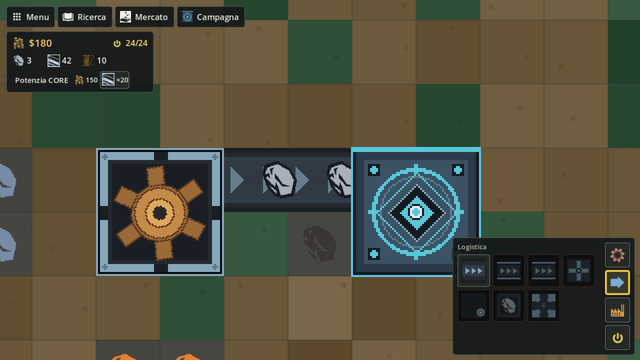
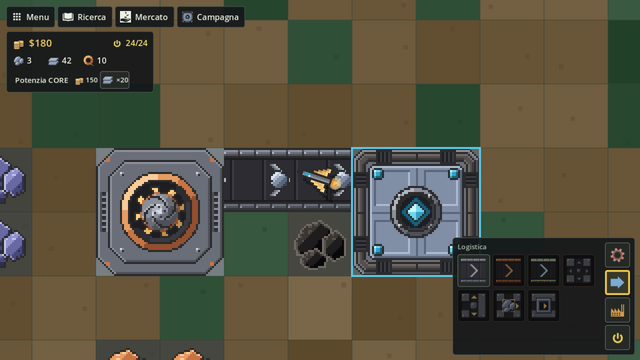
docs: arte generata da script e ADR 0004 (G1 6/6)
- ADR 0004 "Arte generata da script" e riga nell'indice delle decisioni
- ARCHITETTURA: sezione "Grafica e sprite" e "Come aggiungere lo sprite di un blocco"; mappa delle cartelle aggiornata
- CLAUDE.md: sprite solo da tools/art/genera.py, mai PNG ritoccati a mano
- README: catture vere della grafica nuova, roadmap con SP3 e G1 fatti
- godot/README: sezione Grafica, ponte al 70% della cella
- CHANGELOG, spec della G1 col link al piano, mappa Obsidian (G1 fatta, G2a in corso)

diff --git a/tools/dev/mappa_canvas.py b/tools/dev/mappa_canvas.py
@@ -63,7 +63,7 @@ def link(a, b):
 X = [0, COL_W + 2 * PAD + COL_GAP]
 X += [X[1] * 2, X[1] * 3]
 
-title = "# tIndustry — mappa del progetto\nMindustry × Tiny Industry, Godot 4.4 .NET. Aggiornata il 2026-10-18, notte."
+title = "# tIndustry — mappa del progetto\nMindustry × Tiny Industry, Godot 4.4 .NET. Aggiornata il 2026-10-18, dopo la G1."
 nodes.append({"id": "titolo", "type": "text", "text": title, "x": 0, "y": -170,
               "width": X[3] + COL_W + 2 * PAD, "height": 130, "color": "6"})
 
@@ -72,20 +72,20 @@ fatto = Column("g-fatto", "Fatto", X[0], "4")
 fatto.card("sp1", "**SP1 · Riordino**\nCartelle, CLAUDE.md, ARCHITETTURA, dev.cmd, ADR 0001.\nPR #139–#146")
 fatto.card("sp2", "**SP2 · Simulazione a comandi**\nTick 60/s, GameState e sistemi, SimHost, IGameView, istantanea e checksum, salvataggi v10.\nPR #147–#151 (+#154) · [[2026-10-16-simulazione-comandi-sistemi|diario]]")
 fatto.card("sp3", "**SP3 · Costruzione come Mindustry**\nPiani, drone e cantieri con consegna dal Core, smontaggio con rimborso graduale, coda nell'HUD, salvataggi v11.\nPR #159–#166 · [[2026-10-17-costruzione-in-corso|diario]] · [[0003-costruzione-come-mindustry|ADR 0003]]")
+fatto.card("g1", "**G1 · Arte dei blocchi**\nPixel-art nostra generata da tools/art/ (32 px per cella): edifici a strati, nastri a 3 tier, oggetti, Core in 4 tier, drone alpha / beta / gamma, animazioni di base.\nPR #168–#173 · [[0004-arte-generata-da-script|ADR 0004]] · [[2026-10-18-g1-arte-blocchi|piano]]")
 fatto.card("extra", "**Rifiniture**\n- salvataggio atomico, doppio input, MajorityDeposit (#155)\n- log dei playtest fuori dal profilo (#156)\n- diario e .md in LF (#157)\n- playtest isolati e backup di Continua (#162)")
-fatto.card("docs", "**Documenti**\n- [[ARCHITETTURA]]\n- [[decisioni]] (indice degli ADR, fino a [[0003-costruzione-come-mindustry|0003]])\n- [[docs/diario/README|diario dei lavori]]")
+fatto.card("docs", "**Documenti**\n- [[ARCHITETTURA]]\n- [[decisioni]] (indice degli ADR, fino a [[0004-arte-generata-da-script|0004]])\n- [[docs/diario/README|diario dei lavori]]")
 fatto.close()
 
 # --- In corso --------------------------------------------------------------
-corso = Column("g-sp3", "In corso", X[1], "3")
-corso.card("g1", "**G1 · Arte dei blocchi**\nPixel-art nostra generata da tools/art/ (32 px per cella): edifici, nastri, oggetti, Core in 4 tier, drone alpha / beta / gamma, animazioni di base.\n[[2026-10-18-g1-arte-blocchi-design|spec]]")
+corso = Column("g-corso", "In corso", X[1], "3")
+corso.card("g2a", "**G2a · Mappe e terreno**\nMappe a seme in 3 misure, 4 biomi, pareti, acqua bassa e profonda, mappe della campagna in file, salvataggi v12.\n[[2026-10-18-g2a-mappe-terreno-design|spec]]")
 corso.close()
 
 # --- Prossimi --------------------------------------------------------------
 nxt = Column("g-next", "Prossimi (in ordine)", X[2], "5")
 roadmap = [
-    "g1",
-    nxt.card("g2a", "**G2a · Mappe e terreno**\nMappe a seme in 3 misure, 4 biomi, pareti, acqua bassa e profonda, mappe della campagna in file, salvataggi v12.\n[[2026-10-18-g2a-mappe-terreno-design|spec]]"),
+    "g2a",
     nxt.card("g2b", "**G2b · Arte del terreno**\nSuoli, bordi, pareti raccordate, acqua animata, giacimenti a puntini.\n[[2026-10-18-g2b-arte-terreno-design|spec]]"),
     nxt.card("g3", "**G3 · Effetti e luci**\nParticelle, ombre, bagliori, notte opzionale, impostazioni grafiche per PC deboli.\n[[2026-10-18-g3-effetti-luci-design|spec]]"),
     nxt.card("g4", "**G4 · Interfaccia**\nStile Mindustry, pixel font nostro, lingue, scala e accessibilità.\n[[2026-10-18-g4-interfaccia-design|spec]]"),
@@ -100,10 +100,10 @@ chain(roadmap)
 aperti = Column("g-aperti", "Aperti", X[3], "1")
 aperti.card("a1", "**Salvataggio reale sovrascritto**\nChiuso: le partite erano avviate a mano. Protezione e backup in #162.", "4")
 aperti.card("a2", "**Progetti di Claude Code**\nIndagati: restiamo con le sessioni locali.", "4")
-aperti.card("a3", "**Grafica G1–G4**\nSpec approvate il 2026-10-18 (#167); lavoro notturno in corso.")
+aperti.card("a3", "**Grafica G1–G4**\nSpec approvate il 2026-10-18 (#167). G1 finita; base degli screenshot candidata in .dev/baseline-g1-candidata, da approvare.")
 aperti.close()
 
-link("sp3", "g1")
+link("g1", "g2a")
 
 
 def obsidian_json(items):

diff --git a/docs/ARCHITETTURA.md b/docs/ARCHITETTURA.md
@@ -29,12 +29,13 @@ tIndustry/
 │  ├─ project.godot · export_presets.cfg · TIndustry.Godot.csproj
 │  ├─ scenes/Main.tscn          scena principale (nodo radice Main, script World)
 │  ├─ shaders/                  construct (cantieri)
-│  ├─ assets/                   icone (cartella piatta; ui/ per quelle dell'interfaccia) + ATTRIBUTION.md
+│  ├─ assets/                   sprite generati da tools/art (cartella piatta); ui/ per le icone dell'interfaccia + ATTRIBUTION.md
 │  └─ scripts/
 │     ├─ world/                 World + partial (Input, Placement, Session, Drawing, Visuals, Panels), WorldCamera
+│     ├─ visuals/               Sprites (unico accesso alle texture di assets/)
 │     ├─ visuals/belts/         MindustryBeltVisual, ScrollingBeltStrip, BeltCornerTile, BridgeSpanVisual
 │     ├─ visuals/buildings/     MinerVisual, SmelterVisual, AssemblerVisual, GeneratorVisual, ExtractorVisual, BuildingPad
-│     ├─ visuals/items/         ItemPalette, ItemSilhouette
+│     ├─ visuals/items/         ItemPalette
 │     ├─ visuals/construction/  ConstructionLayer (piani, cantieri, droni), DroneVisual
 │     ├─ ui/hud/                Hud, CorePanel, BuildPalette, BlockInfoPanel, BuildQueuePanel, HudStyle
 │     ├─ ui/panels/             Home, Saves, Settings, Tutorial, Mercato, Research, TechTreeCanvas, CampaignSelect
@@ -43,8 +44,8 @@ tIndustry/
 ├─ tests/TIndustry.Shared.Tests/  test xUnit (scenari della sim, validazione dei contenuti, salvataggi)
 └─ tools/
    ├─ ci/                       setup-godot.sh, export-godot.sh
-   ├─ dev/                      playtest.sh, compare_shots.py
-   └─ gen_structure_blocks.py   generatore delle icone dei blocchi
+   ├─ art/                      genera.py (sprite di edifici, nastri, Core, drone, oggetti), palette, forme, test
+   └─ dev/                      playtest.sh, compare_shots.py, mappa_canvas.py
 ```
 
 `godot/data/` esiste solo dopo l'export (è una copia di `data/`) ed è ignorata da git.
@@ -121,7 +122,7 @@ Il salvataggio è `SaveFileData` / `FactorySaveStore` (`src/TIndustry.Shared/Sav
 ## Come aggiungere un blocco
 
 1. **`data/content.json`**: aggiungi la struttura (id, costi, prerequisiti per la ricerca, ricetta/parametri). Se serve un nuovo oggetto, aggiungilo anche lì (e al mercato se vendibile). Il tempo di costruzione viene dal costo: un oggetto nuovo pesa 1,0 se non lo metti in `buildWeights`, e il blocco può rallentare o accelerare con `buildCostMultiplier` nella sua voce di `buildings[]` o `conveyors[]` (1 se manca). `refundPercent` della stessa voce è la sua quota di rimborso allo smontaggio.
-2. **Icona** in `godot/assets/` (PNG, di norma 64×64; nome = id della struttura); aggiungi la riga in `godot/assets/ATTRIBUTION.md` con autore e licenza. La stessa icona è lo sprite di piani e cantieri (`ConstructionLayer.TextureFor`). Eccezioni: `conveyor-express` usa `conveyor-fast.png` e `conveyor-bridge` usa `bridge.png` (fallback in `TechTreeCanvas.ResolveIcon`, `ConstructionLayer.TextureFor` e `ContentValidationTests.IconFileFor`; le righe della palette puntano direttamente al file).
+2. **Sprite**: disegnalo nel generatore (vedi [Grafica e sprite](#grafica-e-sprite)), mai a mano. `<id>.png` è l'icona di palette, Ricerca, coda, piani e cantieri; il client la prende con `Sprites.For(id)`.
 3. **Strumento di costruzione** (se il blocco è piazzabile dalla palette), da collegare in questi punti:
    - `Hud.ToolKind` e `Hud.StructureIdFor` (`godot/scripts/ui/hud/Hud.cs`): nuova voce dell'enum e mappatura sull'id della struttura;
    - `BuildPalette.cs` (`godot/scripts/ui/hud/`): riga nella tabella della categoria (`ToolsEntries`, `LogisticsEntries`, `ProductionEntries` o `PowerEntries`), `CategoryFor` e nome mostrato (`ToolDisplayFallback`);
@@ -140,7 +141,23 @@ Il salvataggio è `SaveFileData` / `FactorySaveStore` (`src/TIndustry.Shared/Sav
    - `Factory.TryGetSpecAt` (`Factory.cs`): riconosce il blocco su una cella e ne ricostruisce lo `BuildSpec`. Serve a `Remove` (piano di smontaggio), a `Construction.BeginDeconstruct` e a `ConstructFinished`;
    - comportamento nuovo: scrivilo in `src/TIndustry.Shared/Buildings/` o `Power/` e richiamalo dal sistema giusto in `Simulation/Systems/`, rispettando le regole di determinismo;
    - se l'edificio ha stato, includilo in `Factory.Capture`/`Restore` (istantanea e salvataggio) e, cambiando il formato, alza `FactorySaveData.CurrentVersion`.
-6. **Test**: `ContentValidationTests` deve restare verde (icona presente, prerequisiti validi); aggiungi uno scenario in `tests/TIndustry.Shared.Tests/` se c'è logica nuova.
+6. **Test**: `ContentValidationTests` deve restare verde (sprite presente, prerequisiti validi) e anche `python -m unittest tools/art/test_genera.py` (copertura degli sprite); aggiungi uno scenario in `tests/TIndustry.Shared.Tests/` se c'è logica nuova.
+
+## Grafica e sprite
+
+Gli sprite di edifici, nastri, Core, drone e oggetti sono pixel-art originale generata da `python tools/art/genera.py` ([ADR 0004](decisioni/0004-arte-generata-da-script.md), istruzioni in `tools/art/README.md`). I PNG in `godot/assets/` non si ritoccano a mano. Le icone dell'interfaccia in `godot/assets/ui/` sono di terzi, con autore e licenza in `godot/assets/ATTRIBUTION.md`.
+
+- **Generatore.** `tools/art/palette.py` (tutti i colori, rampe da scuro a chiaro, luce da in alto a sinistra, contorno scuro), `forme.py` (pannelli, bulloni, tubi, griglie, ingranaggi, strisce di fotogrammi), `blocchi/` (un modulo per famiglia: ogni funzione registrata con `@sprite("<nome>")` è un PNG). Uscita deterministica; `genera.py --controlla` dice se `godot/assets/` è aggiornata. `.dev/arte/tavola.png` mette ogni sprite vecchio accanto al nuovo per la revisione.
+- **Nomi e misure.** 32 px per cella, mostrati ×2 con filtro Nearest. Nome = id di `content.json`; parti con suffisso (`miner-base`, `miner-drill`, `assembler-arm`…); animazioni come strisce `<id>-anim.png` di fotogrammi quadrati; tier `core-1…4`, `drone-1…3`; oggetti `<id>.png` 32×32 (HUD) e `<id>-belt.png` 10×10 (nastri).
+- **Client.** `Sprites` (`godot/scripts/visuals/Sprites.cs`) è l'unico accesso: `For` (con un riquadro magenta e un avviso se il PNG manca), `TryFor`, `Item`, `BeltItem`, `Frames` (taglia una striscia in quadrati). Gli edifici sono a strati (`BuildingPad.Layer`): base ferma e parti animate dai visual di `godot/scripts/visuals/buildings/`. Gli oggetti non sono tinti.
+
+### Come aggiungere lo sprite di un blocco
+
+1. Nel modulo della sua famiglia in `tools/art/blocchi/` scrivi una funzione che restituisce un'immagine RGBA (`forme.nuova(32 * lato, 32 * lato)`, colori solo da `palette.py`) e registrala con `@sprite("<id>")`. Per un blocco a strati registra anche le parti (`<id>-base`, `<id>-<parte>-anim`) e fai di `<id>` l'icona composta (base + primo fotogramma).
+2. Se il blocco è nuovo, aggiungi il suo lato alla tabella `CELLE` di `tools/art/test_genera.py` (la stessa misura di `Factory.FootprintSize`).
+3. `python tools/art/genera.py --solo <id> …`, guarda `.dev/arte/tavola.png`, poi `python -m unittest tools/art/test_genera.py`.
+4. Importa i PNG nuovi in Godot per avere i `.import` (comando in `CLAUDE.md`) e fai il commit di PNG e `.import` insieme.
+5. Nel client usa `Sprites.For("<id>")` (o `Sprites.Frames("<id>-<parte>")` per un'animazione); un blocco con parti mobili ha il suo visual in `godot/scripts/visuals/buildings/`.
 
 ## Test e playtest
 

diff --git a/docs/decisioni/0004-arte-generata-da-script.md b/docs/decisioni/0004-arte-generata-da-script.md
@@ -1,0 +1,49 @@
+# 0004 — Arte generata da script
+
+**Stato:** accettata, 2026-10-18
+
+## Contesto
+
+Fino al sotto-progetto 3 edifici e oggetti usavano icone di terze parti (game-icons.net, Kenney) e qualche sprite disegnato da un vecchio script (`tools/gen_structure_blocks.py`), a 64 px, tinti a runtime e senza uno stile comune. La scelta di prodotto è una **pixel-art originale in stile Mindustry**, senza file di Mindustry e senza cambiare licenza ([decisioni](../decisioni.md)). Serviva decidere come produrla in modo ripetibile, con quali regole, e come il client la trova.
+
+Specifica: [2026-10-18-g1-arte-blocchi-design](../superpowers/specs/2026-10-18-g1-arte-blocchi-design.md). Piano: [2026-10-18-g1-arte-blocchi](../superpowers/plans/2026-10-18-g1-arte-blocchi.md).
+
+## Opzioni
+
+1. **Generatore Python del progetto** (approccio A della specifica). Tavolozza e forme comuni in codice, uno sprite = una funzione. Ripetibile, rivedibile come codice, ogni cambio di tavolozza si propaga a tutto.
+2. **Pixel-art disegnata a mano** in un editor (Aseprite o simili). Più libertà, ma ogni ritocco è un file binario senza storia leggibile e la coerenza dipende da chi disegna.
+3. **Asset di terzi** (pacchi CC0 o lo stile di Mindustry ricalcato). Veloce, ma non è arte nostra e non ha lo stile voluto; i file di Mindustry sono esclusi.
+
+## Decisione
+
+**Tutti gli sprite di edifici, logistica, Core, drone e oggetti escono da `python tools/art/genera.py`** (Python e Pillow, nessun asset di terzi, nessun file di Mindustry). I PNG in `godot/assets/` non si modificano a mano: si cambia lo script e si rigenera. Le icone dell'interfaccia (`godot/assets/ui/`) restano di terzi fino alla G4.
+
+- **Misure.** 32 px per cella del blocco, mostrati ×2 nel mondo (cella da 64 px) con filtro Nearest. Oggetti: `<id>.png` 32×32 per HUD e pannelli, `<id>-belt.png` 10×10 per i nastri (disegnato ×2, circa 20 px).
+- **Tavolozza e luce.** Ogni colore sta in `tools/art/palette.py`, in rampe da scuro a chiaro di 4–6 toni (test). La luce viene sempre da in alto a sinistra: bordi illuminati con la parte alta della rampa, bordi in ombra con quella bassa. Ogni forma ha un contorno scuro (`OUT`). Le rampe degli oggetti restano nella famiglia di colori di `ItemVisualColors`.
+- **Nomi.** Il nome del file è l'id di `data/content.json`. Le parti hanno un suffisso (`miner-base`, `miner-drill`, `smelter-glow`, `assembler-arm`, `generator-rotor`, `miner-advanced-lamp`…); le animazioni sono strisce orizzontali `<id>-anim.png` di fotogrammi **quadrati** (lato = altezza), perché il client le taglia a quadrati. Tier: `core-1…4`, `drone-1…3`.
+- **Un solo punto d'accesso nel client.** `Sprites` (`godot/scripts/visuals/Sprites.cs`): `For`, `TryFor`, `Item`, `BeltItem`, `Frames`. Uno sprite mancante diventa un riquadro magenta con un avviso, mai un crash; un `-belt.png` mancante ripiega sull'icona grande con un avviso.
+- **Edifici a strati.** Base ferma più parti mosse dal client: trivella che gira (8 fotogrammi), bocca del forno accesa (4), rotore del generatore (4), bracci dell'assemblatore che scorrono sui binari (uno sprite, il destro specchiato; chiusi, le facce della pressa si toccano), lampada del minatore avanzato. L'icona composta `<id>.png` = base + primo fotogramma, ed è quella di palette, coda e cantieri.
+- **Nastri.** 8 fotogrammi che avanzano di 4 px ciascuno (ciclo senza cucitura, curve raccordate ai dritti, test); ogni tier scorre alla sua velocità, legata agli oggetti al secondo del nastro, come in Mindustry. La campata del ponte è una texture ripetuta alta 22 px (44 px nel mondo, circa 0,70 della cella).
+- **Core in 4 tier**, da 2×2 a 5×5, una sola famiglia sempre più grande, con una striscia di luce lenta sul nucleo (`core-<n>-light-anim`, 4 fotogrammi opachi sopra il nucleo: lo sostituiscono, non lo raddoppiano). In partita c'è solo `core-1` fino al sotto-progetto 4; `core-1` è anche l'icona della Ricerca.
+- **Drone in 3 tier**: alpha, beta, gamma (`drone-1…3`, 24, 28 e 32 px), visti dall'alto col muso verso Est, sagome diverse. Oggi si usa alpha.
+- **Oggetti senza tinta.** Ogni oggetto ha il suo sprite a colori, opaco e con contorno chiuso; il client non applica più `Modulate` né sagome calcolate.
+- **Deterministico.** Niente `random` senza seme, niente date o metadati nei PNG: due esecuzioni danno gli stessi byte. `genera.py --controlla` confronta i byte di `godot/assets/` con una generazione fresca.
+
+### Scelte prese durante l'attuazione
+
+- **Nastri a 8 fotogrammi da 4 px** invece dei 4 da 8 px del piano: a velocità T1 i 4 fotogrammi scattavano a vista.
+- **Velocità di scorrimento per tier** (dal ritmo del nastro), non una sola per tutti.
+- **Fotogrammi sempre quadrati.** Il registro non accetta più una larghezza di fotogramma diversa dall'altezza; il test delle misure lo controlla e rifiuta ogni nome che non sia un oggetto, un drone o un blocco noto (tabella `CELLE` tenuta a mano accanto a `Factory.FootprintSize`).
+- **Luce del Core ferma nei playtest.** La luce segue un orologio del mondo che sopravvive alle ricostruzioni della grafica; con `TINDUSTRY_PLAYTEST` resta sul primo fotogramma, così gli screenshot sono stabili senza maschere.
+- **Rotore del generatore** che si ferma dove si trova quando finisce il combustibile, senza tornare a zero.
+- **`core.png` eliminato**: era una copia di `core-1` non usata dal client.
+- **Piombo verso il blu-violetto**: a 10 px minerale di ferro e di piombo sui nastri erano troppo simili.
+- **Vecchio generatore eliminato** (`tools/gen_structure_blocks.py`) con i PNG che scriveva.
+
+## Conseguenze
+
+- **Versione di Pillow.** I byte dei PNG dipendono dal codificatore di Pillow (zlib). Gli sprite del repo sono scritti con **Pillow 12.3**; con un'altra versione `--controlla` può segnalare differenze a pixel uguali. In quel caso si rigenera e si controlla la tavola `.dev/arte/tavola.png` prima del commit.
+- **Ogni PNG nuovo vuole il suo `.import`**, generato con l'importazione di Godot a riga di comando (vedi `CLAUDE.md`).
+- **Aggiungere uno sprite** è una funzione registrata in `tools/art/blocchi/` (vedi `tools/art/README.md` e [ARCHITETTURA](../ARCHITETTURA.md#come-aggiungere-un-blocco)); nel client basta `Sprites.For(id)`.
+- **`ATTRIBUTION.md`** elenca solo le icone dell'interfaccia di terzi; gli sprite generati non hanno attribuzione.
+- **Base degli screenshot.** La grafica nuova cambia tutte le catture dei playtest: la base va rifatta e approvata dall'utente prima di sostituire quella vecchia.

diff --git a/CHANGELOG.md b/CHANGELOG.md
@@ -7,10 +7,12 @@ Il formato è ispirato a [Keep a Changelog](https://keepachangelog.com/); il ver
 
 ### Aggiunto
 
+- **Arte dei blocchi generata da script** (G1): edifici, nastri, Core, drone e oggetti sono pixel-art originale in stile Mindustry, scritta da `python tools/art/genera.py` (32 px per cella, mostrati ×2 senza filtro), al posto delle icone di terzi e del vecchio `tools/gen_structure_blocks.py`. Edifici a strati con parti animate (trivella, bocca del forno, bracci dell'assemblatore, rotore del generatore, lampada del minatore avanzato); nastri a 8 fotogrammi che scorrono alla velocità del loro tier, curve raccordate, `conveyor-express` col suo sprite, ponte con campata ripetuta; Core in 4 tier (2×2…5×5, in partita il 2×2) con luce lenta sul nucleo; droni alpha, beta e gamma; ogni oggetto con icona da 32 px e sprite da 10 px per i nastri, senza tinta. Un solo accesso alle texture nel client (`Sprites`, riquadro magenta e avviso se manca un PNG). PR #168–#173
 - **Costruzione come Mindustry: piani, drone, cantieri, smontaggio con rimborso** (sotto-progetto 3, parte 4). Le partite nuove usano la costruzione vera: piazzare o trascinare nastri crea piani fantasma, il drone vola a costruirli uno alla volta e il blocco si disegna dal basso; senza materiali il cantiere si ferma (tooltip "Mancano: N oggetto") e riparte quando arrivano. Tasto destro: cancella un piano, annulla un cantiere (rimborso di quanto speso) o pianifica lo smontaggio, in rosso, anche trascinando su più blocchi. Nuovo riquadro della coda in alto a sinistra, sotto le risorse del Core (blocco in lavorazione, barra, "+N" piani; clic = camera sul cantiere). Un piano scartato mostra il motivo; niente più "Risorse insufficienti" al piazzamento. Il tutorial avanza quando il minatore è finito e spiega il drone. Correzioni della revisione finale: un cantiere fermo per i materiali da un secondo va in fondo alla coda se altri piani aspettano, come in Mindustry, e riprende da dove era quando ritocca a lui; il riquadro della coda colora d'ambra un cantiere fermo e scrive "Manca: <materiale>"; i blocchi segnati per lo smontaggio hanno un riempimento rosso, il segno si toglie da qualunque cella del blocco (anche dall'altro capo di un ponte) e un trascinamento col destro non lo toglie mai (lo fa solo il clic singolo); i trascinamenti veloci non lasciano più buchi; un nastro accanto al Core è pianificato già rivolto verso il Core; il tooltip "Mancano" segue zoom e visuale e non compare sopra l'HUD; un blocco che copre il Core in una cella qualsiasi dà "Non puoi costruire sul Core"
 
 ### Documentazione
 
+- **Arte generata da script** (G1 6/6): nuovo ADR `docs/decisioni/0004-arte-generata-da-script.md` (perché da script, tavolozza e luce, nomi e tier, strisce quadrate, dipendenza da Pillow 12.3), sezione "Grafica e sprite" con "Come aggiungere lo sprite di un blocco" in `docs/ARCHITETTURA.md`, regola in `CLAUDE.md` (sprite solo da `tools/art/genera.py`, mai PNG ritoccati a mano), README con catture vere della grafica nuova e roadmap aggiornata, mappa Obsidian con la G1 fatta e la G2a in corso. Pulizia: tolti `core.png` (copia non usata di `core-1`) e `ui/settings.png` (non usata); i bracci chiusi dell'assemblatore ora si toccano senza sovrapporsi; il minerale e le lastre di piombo tendono al blu-violetto per non confondersi col ferro sui nastri; un `-belt.png` mancante dà un avviso
 - **Costruzione come Mindustry** (sotto-progetto 3, parte 5): nuovo ADR `docs/decisioni/0003-costruzione-come-mindustry.md` (cantiere separato e drone automatico, con le scelte prese durante i lavori: prelievo per eccesso, rimborso in punti base, annullamento graduale, celle del cantiere salvate, ordine di `Remove`). `docs/ARCHITETTURA.md` ha la sezione "Costruzione" (piani, drone, cantieri, formula, prelievo e rimborso, eventi, client), l'ordine dei sistemi con `Builder` e `Construct`, i salvataggi v11 e "Come aggiungere un blocco" con `BuildSpec` e `Factory.PlaceInstant`. `CLAUDE.md` passa ai salvataggi v11 e spiega `InstantBuild` nei test; `godot/README.md` spiega piani, cantieri, tasto destro e coda nell'HUD. Spec del sotto-progetto 3 approvata; indice delle decisioni, README e mappa Obsidian aggiornati (`tools/dev/mappa_canvas.py` scrive la mappa nel formato di Obsidian)
 - **README rinnovato**: banner, galleria di screenshot, anteprima della nuova pixel-art, tabella dei controlli, roadmap; dettagli di sviluppo in sezioni richiudibili
 - **Per Obsidian**: indice delle decisioni (`docs/decisioni.md`) e mappa del progetto (`docs/mappa-progetto.canvas`, rigenerata da `tools/dev/mappa_canvas.py`)

diff --git a/README.md b/README.md
@@ -29,7 +29,7 @@
 
 <table>
   <tr>
-    <td width="50%"><img src="docs/img/readme/gioco.png" alt="Minatore, nastro e CORE"><br><sub><b>Fabbrica</b> · il minatore porta il minerale al CORE sul nastro</sub></td>
+    <td width="50%"><img src="docs/img/readme/gioco.png" alt="Minatore, nastro e Core"><br><sub><b>Fabbrica</b> · il minatore porta il minerale al CORE sul nastro</sub></td>
     <td width="50%"><img src="docs/img/readme/ricerca.png" alt="Albero della Ricerca"><br><sub><b>Ricerca</b> · albero a rami come in Mindustry</sub></td>
   </tr>
   <tr>
@@ -38,16 +38,17 @@
   </tr>
 </table>
 
-### Anteprima della grafica nuova
+### Grafica
 
-Pixel-art originale in stile Mindustry, generata da script, che sostituirà la grafica di oggi con l'upgrade grafico (G1).
+Pixel-art originale in stile Mindustry, generata da script (`tools/art/genera.py`): edifici a strati con parti animate, nastri a tre tier, Core e drone, oggetti senza tinta. Catture dal gioco.
 
 <p align="center">
-  <img src="docs/img/readme/anteprima-scena.png" alt="Anteprima: minatore, nastri, forno e drone su terreno in pixel-art" width="100%">
+  <img src="docs/img/readme/blocchi.png" alt="Blocchi di produzione e potenza accesi: minatori, forno, assemblatore, generatore, nodi e Core" width="100%">
+  <br><sub>Blocchi di produzione e potenza in funzione</sub>
 </p>
 <p align="center">
-  <img src="docs/img/readme/anteprima-sprite.png" alt="Anteprima degli sprite: minatore, forno, nastro, drone, lastra di ferro, filo di rame" width="100%">
-  <br><sub>Minatore · forno · nastro · drone costruttore · lastra di ferro · filo di rame (scala ×4)</sub>
+  <img src="docs/img/readme/oggetti.png" alt="Ogni oggetto sui tre tier di nastro" width="100%">
+  <br><sub>Ogni oggetto sui tre tier di nastro</sub>
 </p>
 
 ---
@@ -108,8 +109,9 @@ Il lavoro procede per sotto-progetti, ognuno con spec, piano, revisioni e un [di
 | --- | --- | --- |
 | Fatto | **1 · Riordino** | Struttura del repo, documentazione, avvio di sviluppo in un comando |
 | Fatto | **2 · Simulazione a comandi** | Tick fisso a 60/s, sistemi in ordine fisso, comandi validati, istantanea con checksum, base per il co-op |
-| In corso | **3 · Costruzione come Mindustry** | Piani in coda, drone che vola e costruisce, cantieri con consumo e rimborso graduali ([ADR 0003](docs/decisioni/0003-costruzione-come-mindustry.md)); simulazione in `main`, gioco e documentazione in arrivo con le PR #164 e #166 |
-| Previsto | **G1–G4 · Upgrade grafico** | Pixel-art originale in stile Mindustry: blocchi, terreno, effetti e luci, interfaccia |
+| Fatto | **3 · Costruzione come Mindustry** | Piani in coda, drone che vola e costruisce, cantieri con consumo e rimborso graduali ([ADR 0003](docs/decisioni/0003-costruzione-come-mindustry.md)) |
+| Fatto | **G1 · Arte dei blocchi** | Pixel-art nostra generata da script: edifici a strati con parti animate, nastri a tre tier, oggetti, Core in 4 tier, droni alpha / beta / gamma ([ADR 0004](docs/decisioni/0004-arte-generata-da-script.md)) |
+| In corso | **G2–G4 · Upgrade grafico** | Mappe e terreno, effetti e luci, interfaccia |
 | Previsto | **4 · Drone e tier** | Il drone lo comandi tu; CORE shard → foundation → nucleus e droni alpha → beta → gamma |
 | Previsto | **5 · Co-op** | Server C# e sincronizzazione ibrida ([ADR 0002](docs/decisioni/0002-sincronizzazione-ibrida.md)) |
 

diff --git a/docs/decisioni.md b/docs/decisioni.md
@@ -9,12 +9,13 @@ Indice delle decisioni del progetto. Le decisioni architetturali (ADR) stanno in
 | [0001 — Il server multiplayer sarà in C#](decisioni/0001-server-csharp.md) | Il server per il co-op riusa la simulazione `TIndustry.Shared` in C#, senza un secondo linguaggio. | accettata, 2026-10-15 |
 | [0002 — Sincronizzazione multiplayer ibrida](decisioni/0002-sincronizzazione-ibrida.md) | Un giocatore ospita la partita e ordina i comandi. Tutti simulano in modo deterministico. Checksum per accorgersi delle divergenze, istantanea per recuperare o per entrare a partita in corso. | accettata, 2026-10-15 |
 | [0003 — Costruzione come Mindustry](decisioni/0003-costruzione-come-mindustry.md) | Piazzare crea un piano; il drone automatico lo raggiunge e un cantiere separato lo costruisce nel tempo, prelevando dal Core man mano. Smontaggio con rimborso graduale; `InstantBuild` per test e demo; salvataggi v11. | accettata, 2026-10-17 |
+| [0004 — Arte generata da script](decisioni/0004-arte-generata-da-script.md) | Sprite di edifici, nastri, Core, drone e oggetti generati da `tools/art/genera.py`: pixel-art nostra a 32 px per cella mostrata ×2, tavolozza unica con luce da in alto a sinistra, strisce di fotogrammi quadrati, un solo accesso `Sprites` nel client, oggetti senza tinta. Mai PNG ritoccati a mano. | accettata, 2026-10-18 |
 
 ## Scelte di prodotto (dalle conversazioni)
 
 - **Co-op**: cooperativo, ospitato da un giocatore, con il giocatore come piccolo drone, come in Mindustry.
 - **Costruzione**: il più simile possibile a Mindustry. Rimborso allo smontaggio al 100% in partita base e sandbox; in campagna è fissato per livello (100% nei livelli 1–3, 50% dal 4). Un cantiere annullato restituisce sempre tutto quanto speso. Niente riposizionamento gratuito degli edifici.
-- **Grafica**: pixel-art originale nostra, generata da script, in stile Mindustry. Nessun file di Mindustry e nessun cambio di licenza.
-- **Tier**: il Core ha tre livelli (shard, foundation, nucleus) e il drone tre tier (alpha, beta, gamma), con effetti sul gameplay come in Mindustry. Saranno pianificati con il sotto-progetto 4.
+- **Grafica**: pixel-art originale nostra, generata da script, in stile Mindustry ([ADR 0004](decisioni/0004-arte-generata-da-script.md)). Nessun file di Mindustry e nessun cambio di licenza.
+- **Tier**: il Core ha quattro livelli (da 2×2 a 5×5) e il drone tre tier (alpha, beta, gamma), con effetti sul gameplay come in Mindustry. Gli sprite ci sono dalla G1; il gameplay sarà pianificato con il sotto-progetto 4.
 - **CI**: GitHub Actions solo manuali o su tag di release.
 - **Dati del giocatore**: mai toccati da sviluppo e playtest, che usano sempre un profilo temporaneo.

diff --git a/CLAUDE.md b/CLAUDE.md
@@ -17,6 +17,7 @@ Avvio all-in-one: `tools/dev/dev.sh [--profilo-temp] [--nuova] [--editor] [--tes
 ```bash
 dotnet build tIndustry.sln -c Release -nologo -v q       # atteso: 0 errori, 0 avvisi
 dotnet test tests/TIndustry.Shared.Tests -c Release --no-build
+python -m unittest tools/art/test_genera.py                # test del generatore degli sprite
 APPDATA="$(mktemp -d)" godot4 --headless --path godot --import   # poi ripristina i .import (sotto)
 APPDATA="$(mktemp -d)" godot4 --headless --path godot --build-solutions --quit
 godot4 --path godot                                      # avvia il gioco (legge data/)
@@ -40,7 +41,7 @@ for f in $(git ls-files -m godot/assets); do git diff --ignore-cr-at-eol --quiet
 - Namespace: `TIndustry.Shared`, `TIndustry.Godot`, `TIndustry.Shared.Tests` (nessun sotto-namespace per cartella).
 - `src/TIndustry.Shared` non dipende da Godot né dal sistema operativo (vedi `docs/decisioni/0001-server-csharp.md`).
 - Dati di gioco solo in `data/` (`content.json`, `campaign.json`); `godot/data/` è generata dall'export ed è ignorata da git.
-- Icone solo in `godot/assets/` (piatto), con attribuzione in `godot/assets/ATTRIBUTION.md`.
+- Sprite di edifici, nastri, Core, drone e oggetti solo da `python tools/art/genera.py`; non modificare i PNG a mano (si cambia lo script e si rigenera; `--controlla` verifica, vedi `tools/art/README.md` e `docs/decisioni/0004-arte-generata-da-script.md`). Tutto in `godot/assets/` (piatto); le icone di terzi dell'interfaccia stanno in `godot/assets/ui/` con attribuzione in `godot/assets/ATTRIBUTION.md`.
 - Spostare uno script Godot = `git mv` insieme al suo `.uid`.
 - Salvataggi alla versione 11 (`FactorySaveData.CurrentVersion`); cambiare il formato = alzare la versione.
 - Costruzione come Mindustry (piani, drone, cantieri: `docs/decisioni/0003-costruzione-come-mindustry.md`). I test che non provano la costruzione usano `GameRules(InstantBuild: true)` (per esempio `NewGame.Sandbox(..., rules: new GameRules(InstantBuild: true))`), così i piazzamenti tramite `SimHost` sono istantanei; i `Factory.TryPlace…` piazzano sempre subito.

diff --git a/godot/README.md b/godot/README.md
@@ -59,7 +59,11 @@ HUD in alto a sinistra (stile Mindustry): pulsanti **Menu · Ricerca · Mercato 
 | C | Cicla filtro selezionatore |
 | RMB | Cancella un piano, annulla un cantiere o segna un blocco da smontare; clic singolo toglie il segno, trascinare segna soltanto (non è uno slot palette) |
 
-Ponte: estremi full 1×1, centro ~78% thickness, span 2–4, mid tiles free (belt can cross under).
+Ponte: estremi 1×1, campata larga circa il 70% della cella, distanza 2–4, celle in mezzo libere (un nastro può passarci sotto).
+
+## Grafica
+
+Edifici, nastri, Core, drone e oggetti sono pixel-art nostra generata da `python tools/art/genera.py` (32 px per cella, mostrati ×2 senza filtro; vedi `tools/art/README.md` e l'ADR 0004). Gli edifici hanno parti animate: la trivella del minatore gira mentre estrae, il forno si accende, i bracci dell'assemblatore premono, il rotore del generatore gira finché c'è combustibile; il nucleo del Core pulsa piano. I nastri scorrono alla velocità del loro tier e gli oggetti sopra hanno il loro sprite a colori, senza tinta. Le icone dell'interfaccia in `assets/ui/` sono di terzi (`assets/ATTRIBUTION.md`).
 
 ## Prove automatiche
 

diff --git a/docs/superpowers/specs/2026-10-18-g1-arte-blocchi-design.md b/docs/superpowers/specs/2026-10-18-g1-arte-blocchi-design.md
@@ -1,8 +1,9 @@
 # G1 — Arte dei blocchi generata da script
 
-- **Stato**: approvata il 2026-10-18
+- **Stato**: approvata il 2026-10-18; attuata (PR #168–#173)
+- **Piano**: [2026-10-18-g1-arte-blocchi](../plans/2026-10-18-g1-arte-blocchi.md)
 - **Roadmap grafica**: **G1** → [G2a mappe e terreno](2026-10-18-g2a-mappe-terreno-design.md) → [G2b arte del terreno](2026-10-18-g2b-arte-terreno-design.md) → [G3 effetti e luci](2026-10-18-g3-effetti-luci-design.md) → [G4 interfaccia](2026-10-18-g4-interfaccia-design.md). Dopo: sotto-progetto 4 (tier e drone comandato) e sotto-progetto Liquidi.
-- **Collegati**: [ADR 0003 — Costruzione come Mindustry](../../decisioni/0003-costruzione-come-mindustry.md), [diario del sotto-progetto 3](../../diario/2026-10-17-costruzione-in-corso.md)
+- **Collegati**: [ADR 0004 — Arte generata da script](../../decisioni/0004-arte-generata-da-script.md), [ADR 0003 — Costruzione come Mindustry](../../decisioni/0003-costruzione-come-mindustry.md), [diario del sotto-progetto 3](../../diario/2026-10-17-costruzione-in-corso.md)
 
 ## Obiettivo
 
